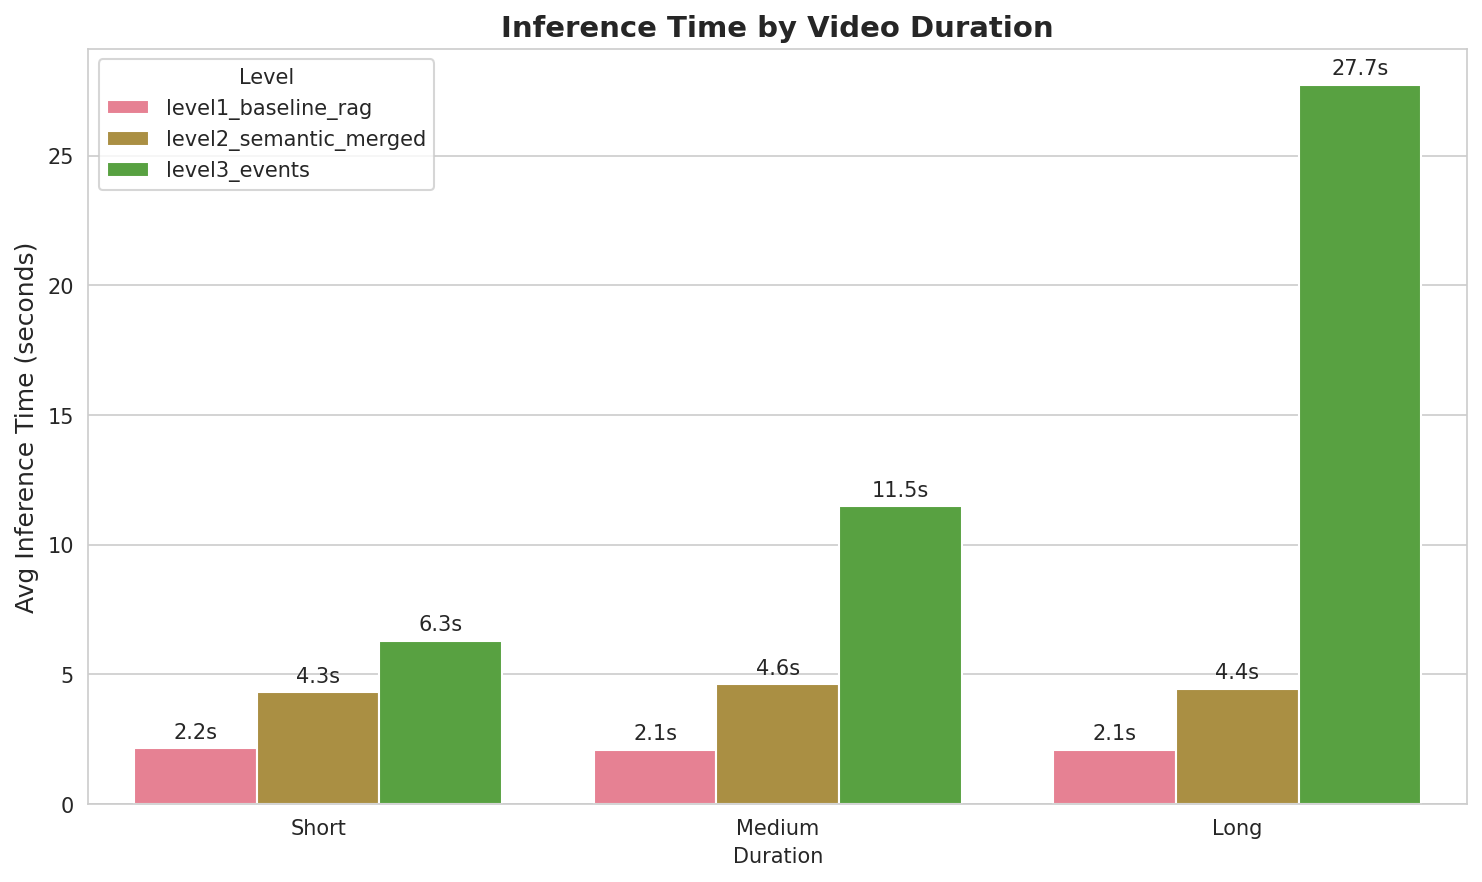
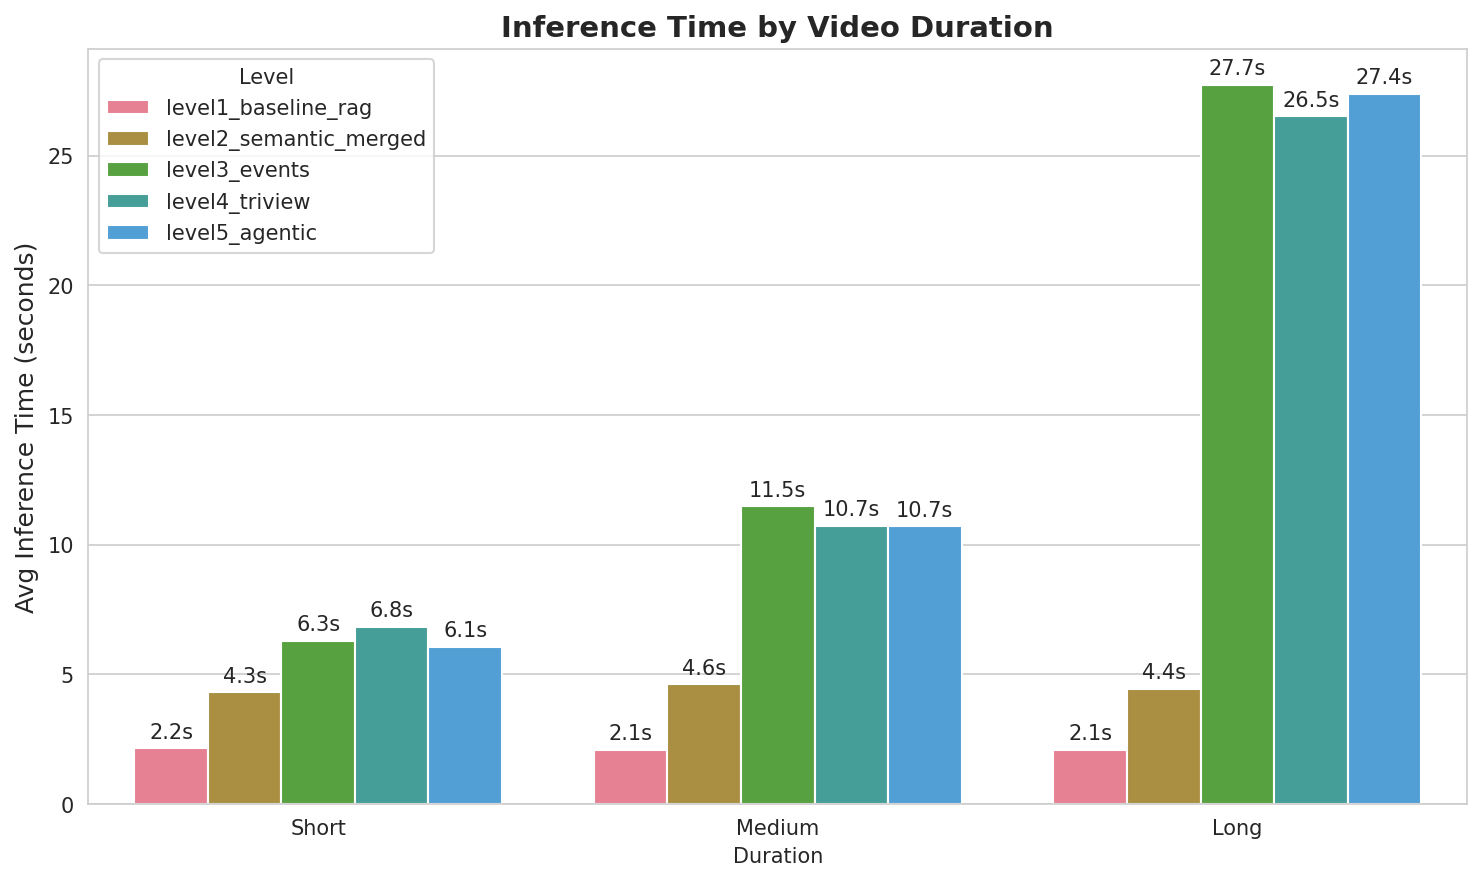
update readme

diff --git a/readme.md b/readme.md
@@ -10,34 +10,50 @@ We're building on the [AVAS (Agentic Video Analytics System)](https://arxiv.org/
 
 ### Overall Performance Comparison
 
-| Metric | Level 1 (Baseline) | Level 2 (Semantic) | Level 3 (Events) | Δ L2→L3 |
-|--------|-------|-------|-------|------|
-| **Overall Accuracy** | 52.0% | 59.3% | **54.7%** | **-4.6%** |
-| Avg Retrieval Time | 8.89s | 9.34s | 9.13s | -0.21s |
-| Avg Inference Time | 2.11s | 4.45s | 12.65s | +8.20s |
-| **Total Time/Question** | 11.0s | 13.8s | 21.8s | +8.0s |
+| Metric | L1 (Baseline) | L2 (Semantic) | L3 (Events) | L4 (Tri-view) | L5 (Agentic) | Best |
+|--------|---------------|---------------|-------------|---------------|--------------|------|
+| **Overall Accuracy** | 52.0% | 59.3% | 54.7% | 59.3% | 51.3% | **L2/L4: 59.3%** |
+| Avg Retrieval Time | 8.89s | 9.34s | 9.13s | 9.12s* | 31.61s* | **L1: 8.89s** |
+| Avg Inference Time | 2.11s | 4.45s | 12.65s | 3.32s | 2.72s | **L1: 2.11s** |
+| **Total Time/Question** | 11.0s | 13.8s | 21.8s | 12.4s | 34.3s | **L1: 11.0s** |
+
+*Includes preprocessing time (tri-view embedding generation)
 
 ### Accuracy by Video Duration
 
-| Duration | Level 1 | Level 2 | Level 3 | Δ L2→L3 |
-|----------|---------|---------|---------|---------|
-| Short Videos (60 questions) | 56.7% | 60.0% | **65.0%** | **+5.0%** |
-| Medium Videos (60 questions) | 51.7% | 68.3% | **58.3%** | **-10.0%** |
-| Long Videos (30 questions) | 43.3% | 40.0% | **26.7%** | **-13.3%** |
+| Duration | L1 | L2 | L3 | L4 | L5 | Best |
+|----------|----|----|----|----|-------|------|
+| **Short Videos** (60 questions) | 56.7% | 60.0% | **65.0%** | **65.0%** | 63.3% | **L3/L4: 65.0%** |
+| **Medium Videos** (60 questions) | 51.7% | **68.3%** | 58.3% | 60.0% | 46.7% | **L2: 68.3%** |
+| **Long Videos** (30 questions) | 43.3% | 40.0% | 26.7% | **46.7%** | 36.7% | **L4: 46.7%** |
 
-**Key Finding**: Event-based retrieval shows **strong improvements on short videos** (+5.0%), but **significant degradation on medium and long videos** (-10.0% and -13.3%). This suggests:
-- Event knowledge graphs help with focused, short-form content
-- Long videos create many events, making retrieval challenging
-- More careful retreival/graph traversal is required for increasingly long videos
+**Key Findings**:
+- **L3 (Events)**: Strong on short videos (+5% over L2) but degrades on longer content (-10% medium, -13.3% long). Event graphs help with focused content but struggle as event count grows.
+- **L4 (Tri-view)**: Best overall balance - matches L2's accuracy with similar latency, and improves long video performance (+6.7% over L2). Multi-modal retrieval (visual + semantic + entity) provides robustness.
+- **L5 (Agentic)**: Worst performance despite 3x higher latency. Visual navigation adds overhead without accuracy gains, suggesting agent needs better guidance or more sophisticated search strategies.
+
+### Cost Analysis
+
+**Cost per Query by Duration** ($0.000237 per second):
+
+| Level | Short | Medium | Long | Weighted Avg* |
+|-------|-------|--------|------|---------------|
+| L1 (Baseline) | $0.00246 | $0.00255 | $0.00282 | $0.00257 |
+| L2 (Semantic) | $0.00301 | $0.00344 | $0.00341 | $0.00324 |
+| L3 (Events) | $0.00480 | $0.00524 | $0.00547 | $0.00507 |
+| L4 (Tri-view) | $0.00302 | $0.00541 | $0.01019 | $0.00522 |
+| L5 (Agentic) | $0.00778 | $0.00844 | $0.00892 | $0.00824 |
+
+*Weighted by question distribution: 40% short, 40% medium, 20% long
+
+### Visualizations
 
 ![Accuracy Comparison](results/accuracy_comparison_all.png)
 ![Task Accuracy Comparison](results/task_accuracy_comparison.png)
-
-### Latency Analysis
-
 ![Retrieval Time](results/retrieval_time_comparison.png)
 ![Inference Time](results/inference_time_comparison.png)
 ![Total Time](results/total_time_comparison.png)
+![Cost Comparison](results/cost_comparison.png)
 
 ## Architecture Details
 
@@ -82,6 +98,43 @@ We're building on the [AVAS (Agentic Video Analytics System)](https://arxiv.org/
   - Frame budget: 30 frames allocated proportionally across events
 - **VLM**: Qwen2.5-VL-7B for answer generation
 
+### Level 4: Tri-View Retrieval
+- **Event Base**: Uses L3's event knowledge graphs
+- **Multi-Modal Embeddings**: Pre-computed for each event:
+  - **Visual**: 5-frame average CLIP embeddings (OpenCLIP ViT-B-32)
+  - **Semantic**: Text description embeddings (sentence-transformers all-MiniLM-L6-v2)
+  - **Entity**: Entity name embeddings (sentence-transformers all-MiniLM-L6-v2)
+- **Retrieval Strategy**: Reciprocal Rank Fusion (RRF)
+  - Compute separate rankings from visual, semantic, and entity similarities
+  - Combine using RRF: `score = 1/(k + rank_visual) + 1/(k + rank_semantic) + 1/(k + rank_entity)`
+  - k=30
+  - Top-5 events selected by fused score
+- **Context**: Same as L3 (chronologically ordered events with timestamps)
+- **VLM**: Qwen2.5-VL-7B for answer generation
+- **Preprocessing**: ~1.8s (short), ~9.6s (medium), ~22.7s (long) to build tri-view cache
+
+### Level 5: Agentic Visual Navigation
+- **Agent Model**: Qwen3-VL-2B for navigation decisions
+- **Event Base**: Uses L4's tri-view event retrieval for initial event
+- **Navigation Strategy**:
+  - Agent starts at top RRF-retrieved event
+  - Views 5 sampled frames from current event
+  - Sees own exploration history (previous decisions + reasoning)
+  - Decides: NEXT (move forward), PREVIOUS (move back), or ANSWER (stop)
+  - Max 5 hops to explore temporal neighborhood
+- **Context Building**:
+  - Visited events collected during navigation
+  - Frame budget: 25 frames distributed across visited events
+  - Event descriptions + frames passed to VLM
+- **VLM**: Qwen2.5-VL-7B for final answer generation
+
+**Performance Issues:**
+- **Worst accuracy** (51.3%, -8% vs L4) despite 3x higher latency
+- Exploration strategy needs improvement:
+  - Likely need larger model for better navigation logic
+  - Richer context in navigation prompt
+  - Possibly add option to jump around video of highest ranked event actually irrelevant
+
 ## Current Status
 
 ### Completed
@@ -90,19 +143,18 @@ We're building on the [AVAS (Agentic Video Analytics System)](https://arxiv.org/
 - **Level 1 Baseline RAG**: Fixed 3-second chunks, middle-frame embeddings, top-10 retrieval
 - **Level 2 Semantic RAG**: Semantic merging, multi-frame embeddings, adaptive selection
 - **Level 3 Event Knowledge Graphs**: Entity extraction, graph construction, temporal retrieval
+- **Level 4 Tri-View Retrieval**: Multi-modal embeddings (visual + semantic + entity) with RRF fusion
+- **Level 5 Agentic Navigation**: Visual agent explores event graphs with self-reflective reasoning
 - Comprehensive evaluation infrastructure with detailed metrics and visualizations
 - Analysis notebooks for cross-level comparison
-
-### Next Steps
-- Level 4: Tri-view retrieval
-- Level 5: Agentic search
-- Level 6: Self-consistency
 
 ### Infrastructure
 - **Models**: 
   - VLM: Qwen2.5-VL-7B (answer generation)
-  - Description: Qwen2.5-VL-2B (chunk descriptions, Level 2+)
-  - Embeddings: OpenCLIP ViT-B-32
+  - Description: Qwen2.5-VL-2B (chunk descriptions, L2+)
+  - Entity Extraction: Qwen3-4B (L3+)
+  - Agent: Qwen3-VL-2B (L5 navigation)
+  - Embeddings: OpenCLIP ViT-B-32 (visual), sentence-transformers all-MiniLM-L6-v2 (text/entities)
 - **Hardware**: GCP L4 GPU (24GB VRAM)
 - **Dataset**: 50 videos (20 short, 20 medium, 10 long), 150 questions across 12 task types from VideoMME
 
@@ -116,7 +168,13 @@ python eval.py --level baseline
 python eval.py --level semantic
 
 # Level 3: Event Knowledge Graph evaluation
-python eval.py --level event
+python eval.py --level events
+
+# Level 4: Tri-view retrieval evaluation
+python eval.py --level triview
+
+# Level 5: Agentic navigation evaluation
+python eval.py --level agentic
 ```
 
 ## Notes
@@ -127,3 +185,5 @@ python eval.py --level event
 - Evaluation uses greedy decoding (temperature=0) for reproducibility
 - Level 2+ chunk descriptions generated offline at 1.36 FPS. (~6 FPS in AVAS with 2 A100's)
 - Level 3+ event/entity extraction adds ~50s preprocessing per video
+- Level 4+ tri-view embedding generation adds 1.8-22.7s preprocessing per video
+- Cost calculations based on L4 GPU pricing: $0.000237 per second
